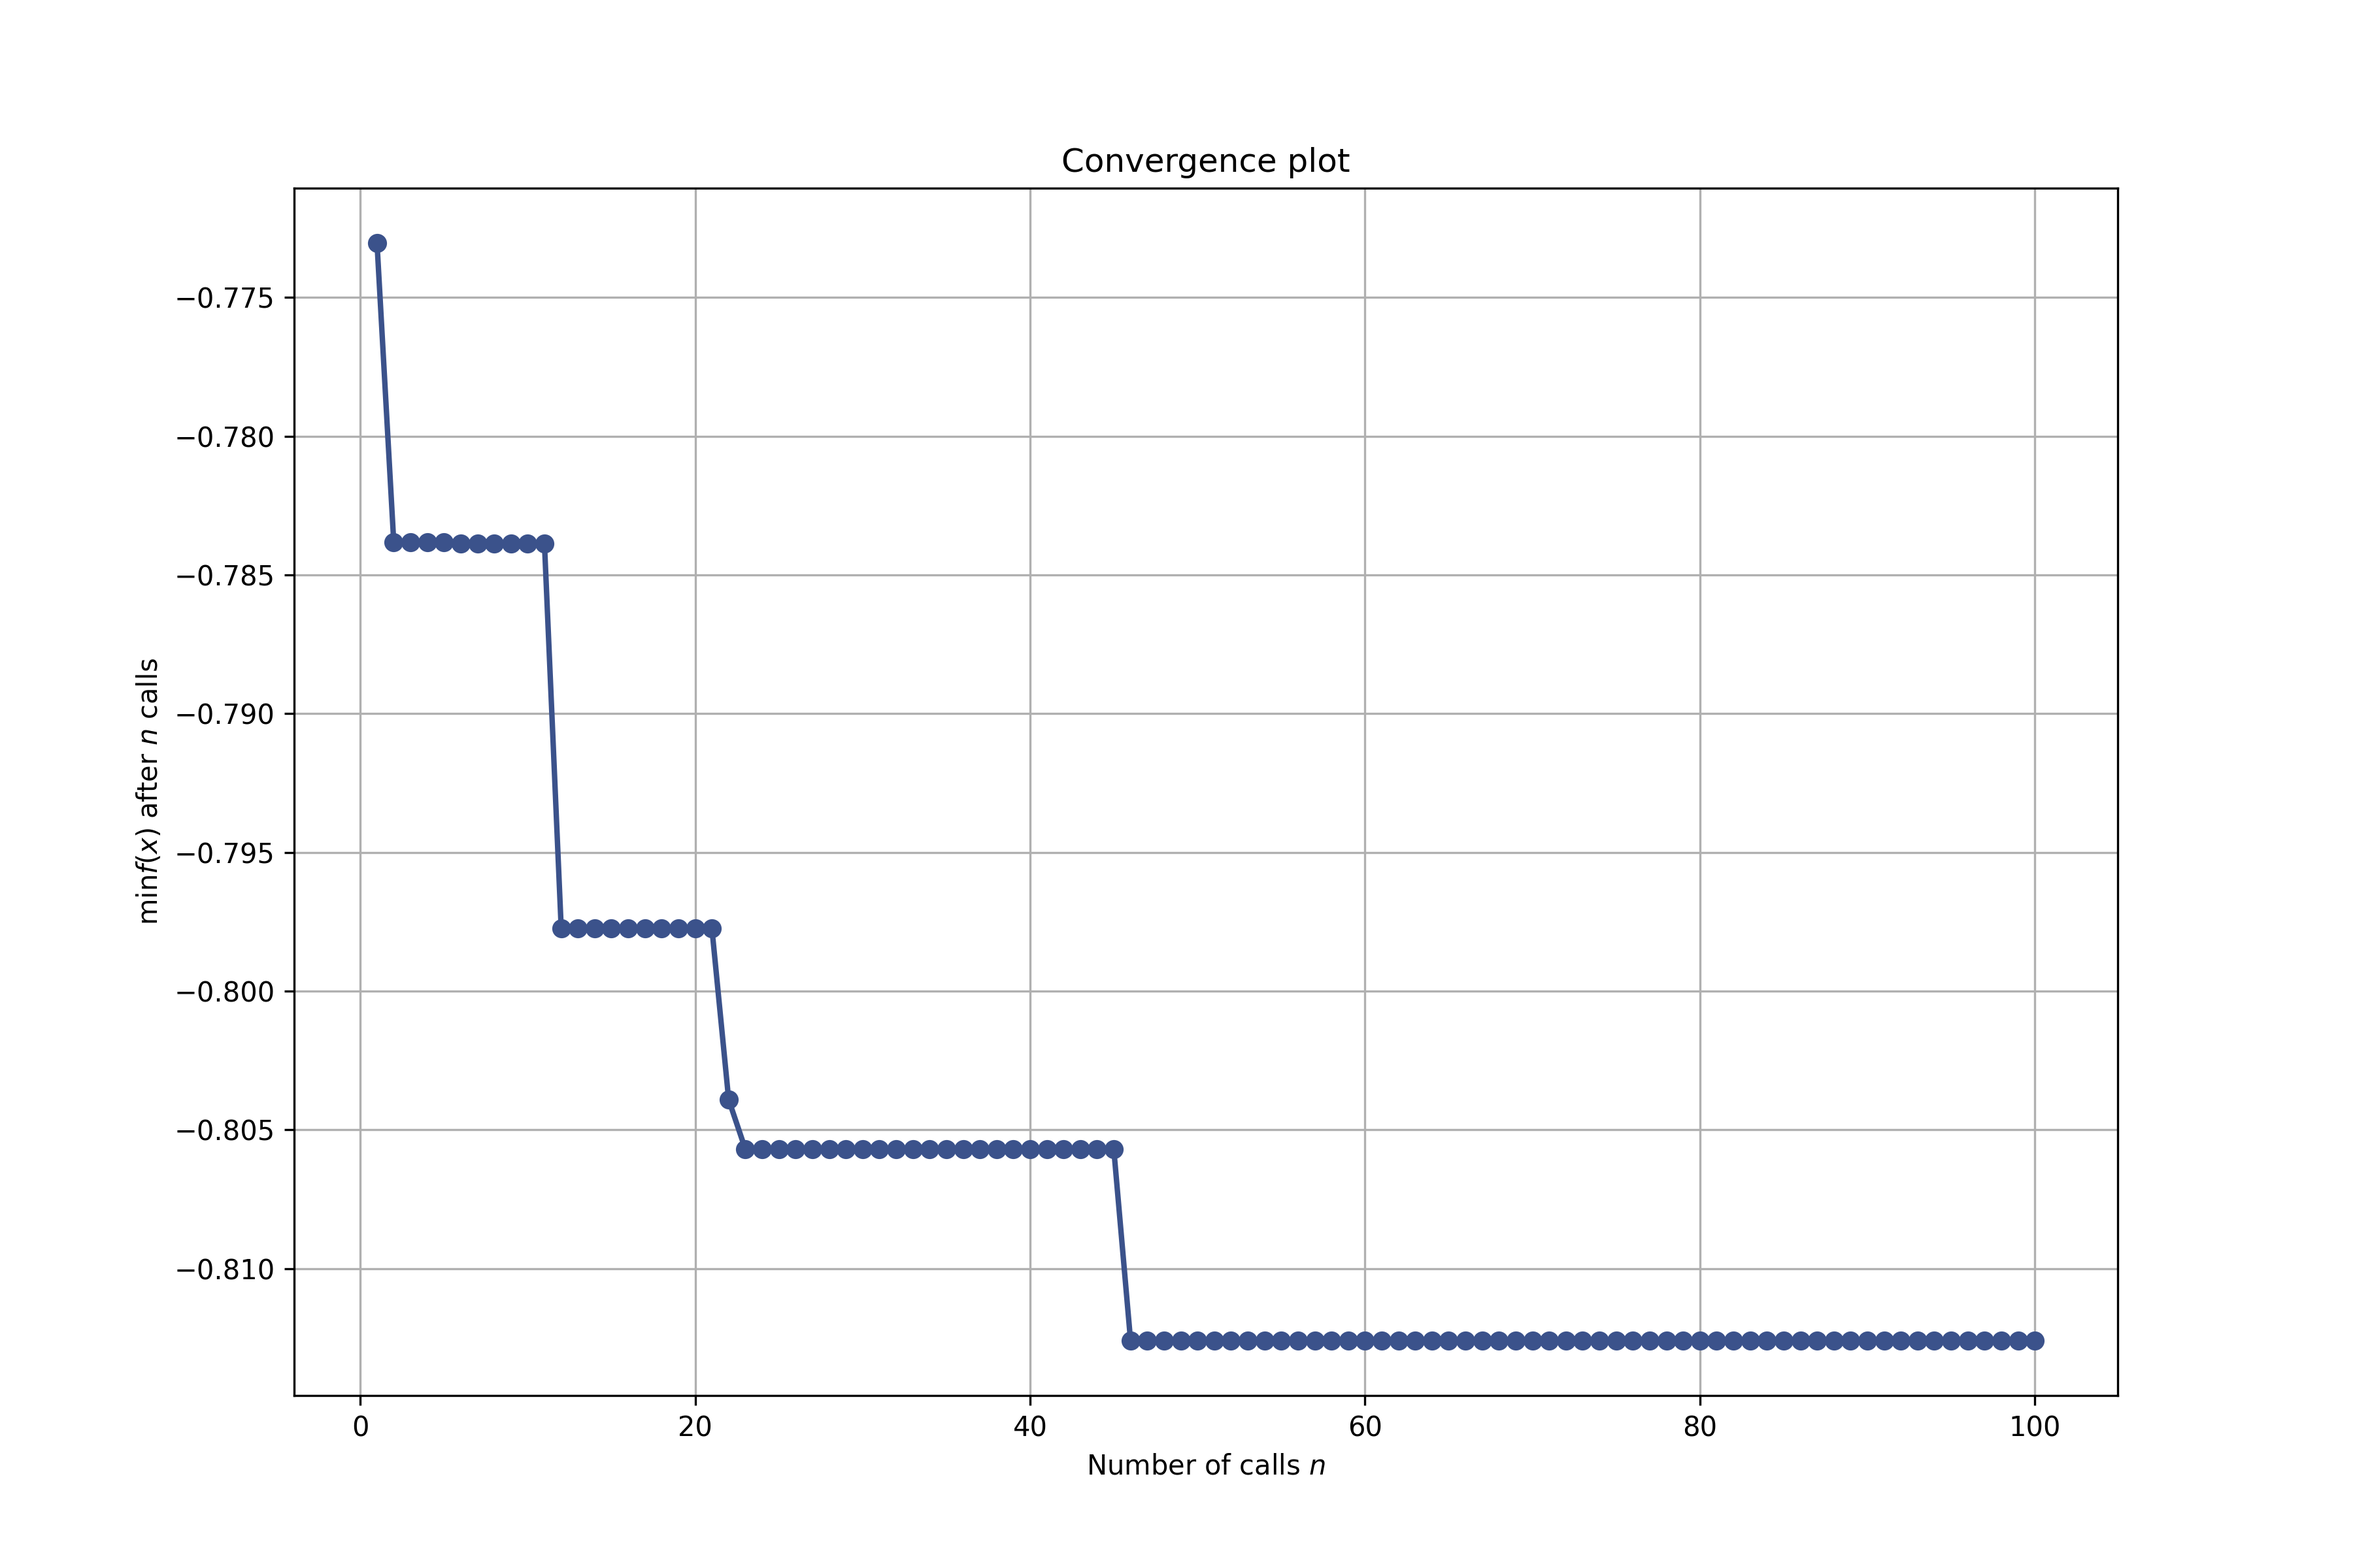
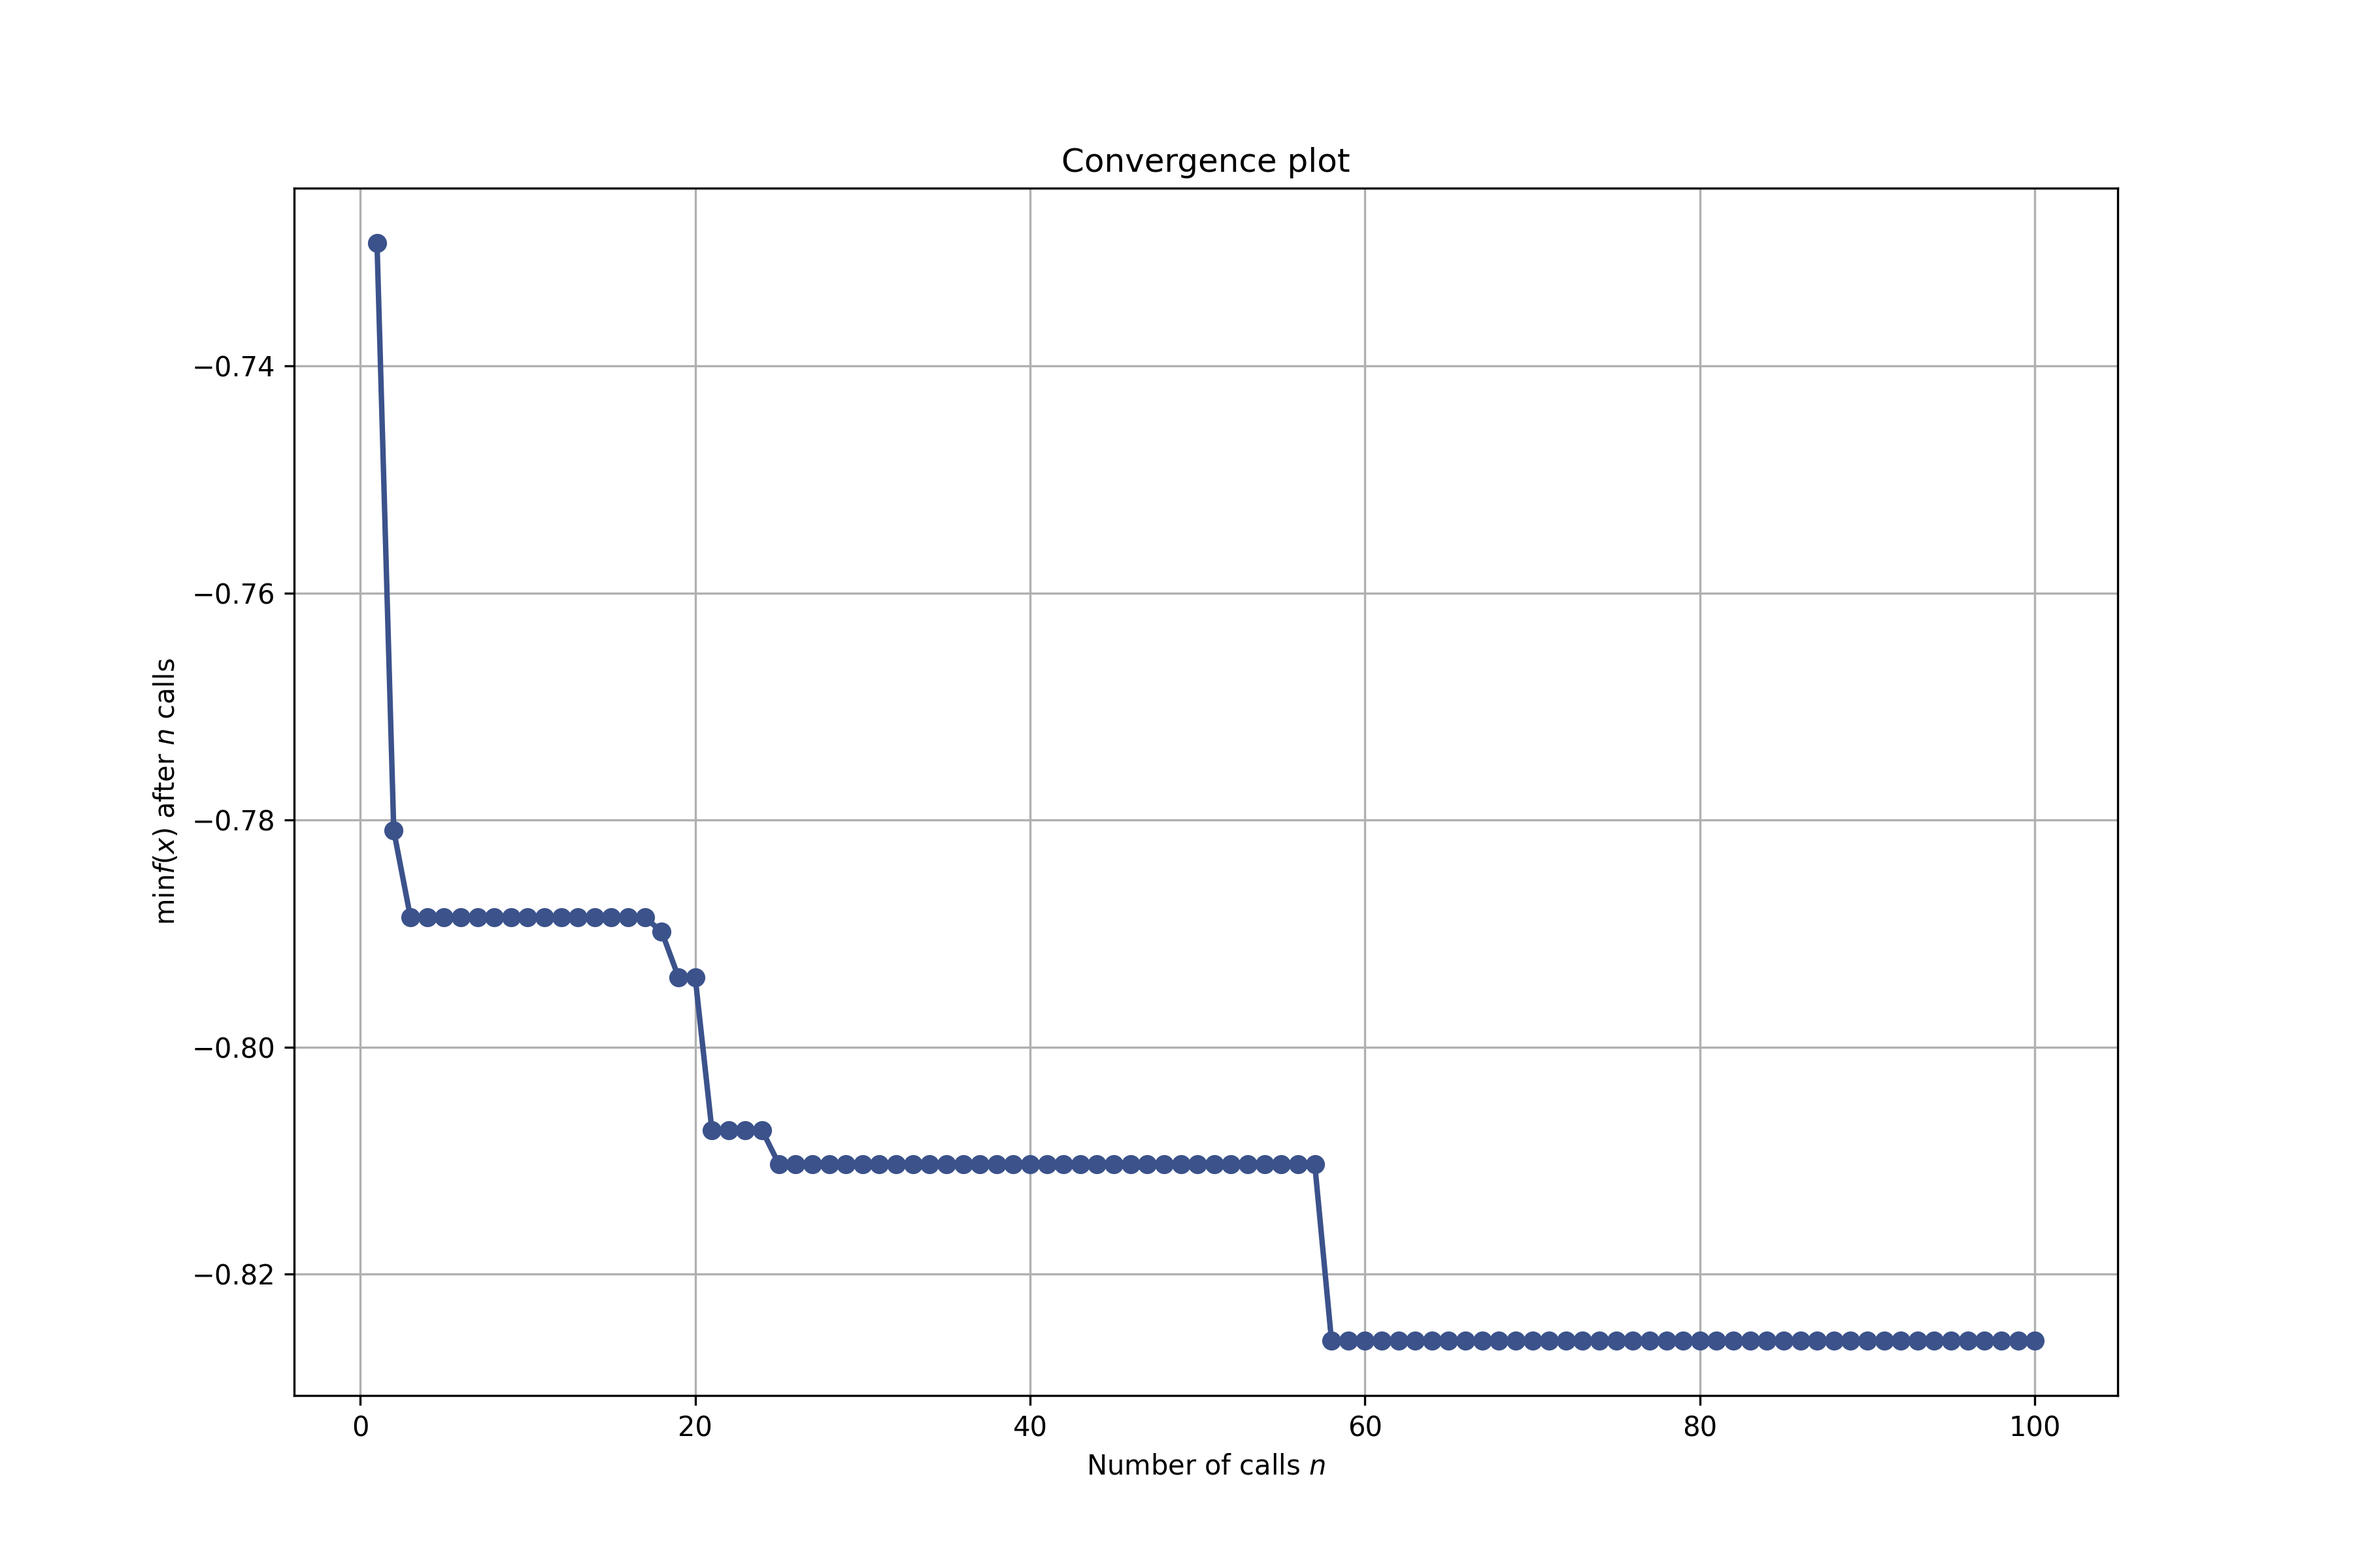
combined plots code

diff --git a/pkl_to_plots.py b/pkl_to_plots.py
@@ -2,7 +2,7 @@ import matplotlib.pyplot as plt
 from skopt import load
 from skopt.plots import plot_convergence, plot_objective, plot_evaluations
 
-result = load("hp_optim_results_F14.pkl")
+result = load("hp_optim_results_F1.2.pkl")
 
 # Best hyperparameters
 best_hyperparameters = {
@@ -24,6 +24,32 @@ with open('best_hyperparameters.txt', 'w') as f:
 
 # Define parameter names
 param_names = ["Learning Rate", "Weight Decay", "Gradient Clipping"]
+
+# Create a figure and axes with 1 row and 3 columns for the combined plot
+fig, axs = plt.subplots(1, 3, figsize=(26, 8))
+
+# Plot Convergence on the first axis
+plot_convergence(result, ax=axs[0])
+axs[0].set_title('Convergence')
+
+# Plot Objective Function on the second axis
+plot_objective(result, dimensions=param_names, n_points=100, levels=30, size=5, ax=axs[1])
+axs[1].set_title('Objective Function')
+
+# Plot Evaluations on the third axis
+plot_evaluations(result, dimensions=param_names, size=5, ax=axs[2])
+axs[2].set_title('Evaluations')
+
+# Adjust layout to remove gaps
+plt.tight_layout()
+
+# Save the combined plot
+plt.savefig('combined_plots.png', dpi=300)
+
+# Close the combined plot to free memory
+plt.close()
+
+# Save individual plots as before
 
 # Generate and save convergence plot
 plt.figure(figsize=(12, 8))
